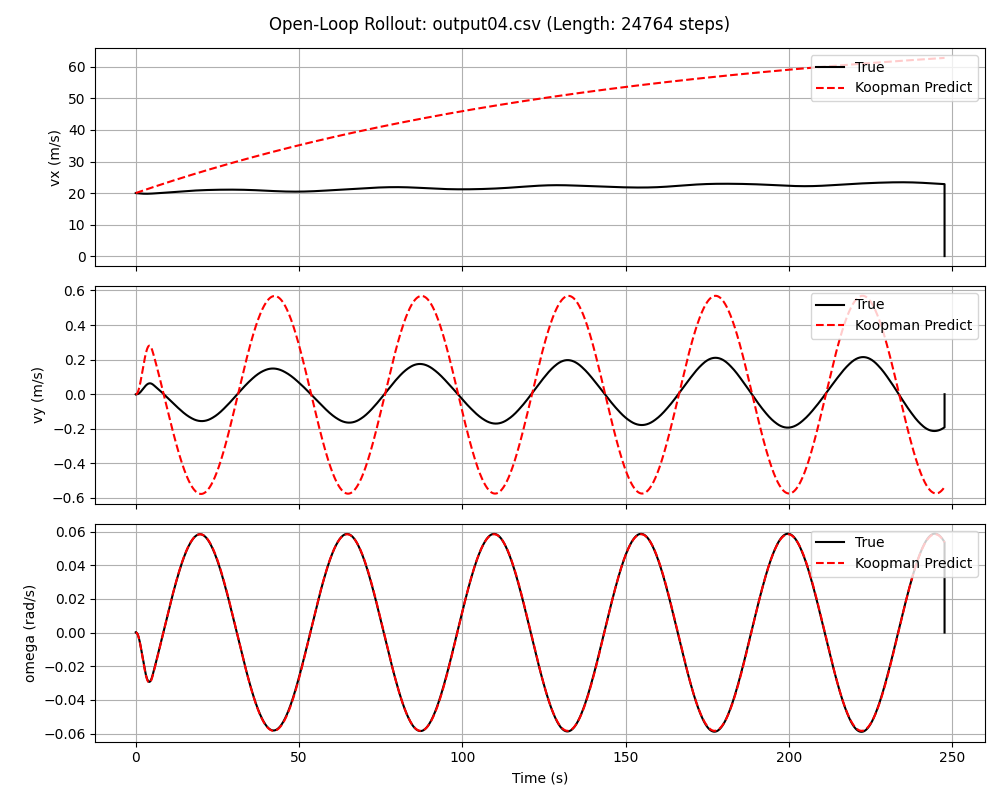
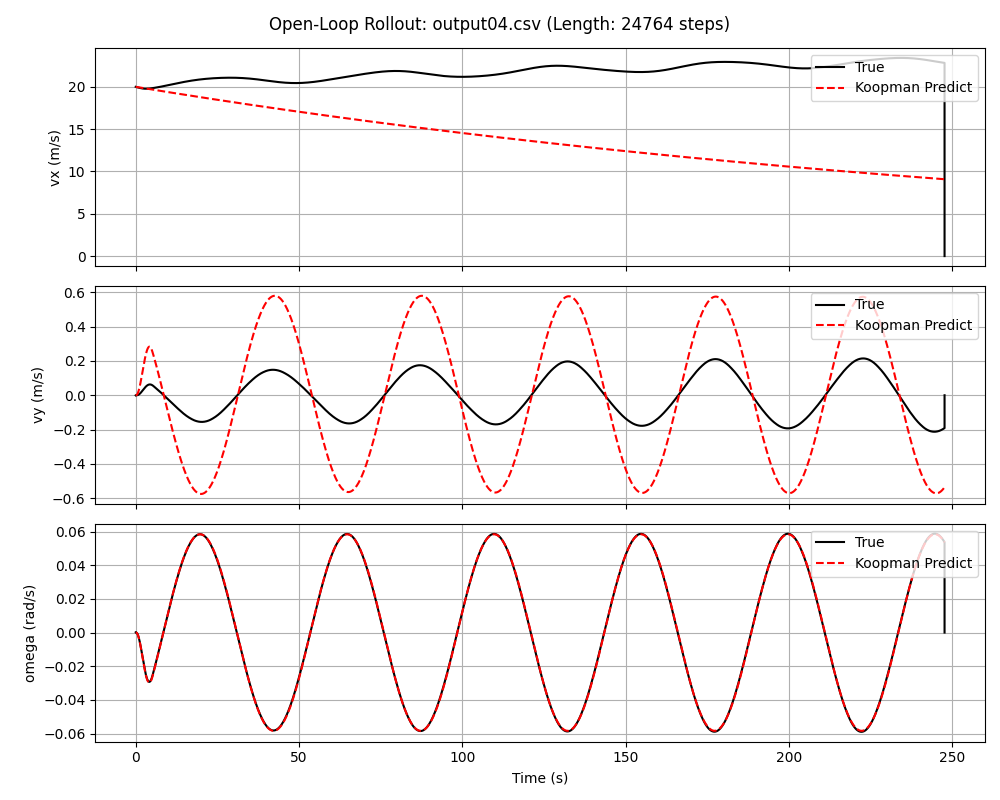
Dimensional consistency fixes, robust parsing, and relative RMSE metric updates

diff --git a/data_loader.py b/data_loader.py
@@ -30,21 +30,46 @@ def load_and_preprocess_data(data_dir, split_ratio=(60, 5, 5), seed=42):
     
     print(f"Split sizes -> Train: {len(train_files)}, Val: {len(val_files)}, Test: {len(test_files)}")
     
-    # Define columns based on investigation
-    cols_to_use = ['Car.Gen.vx_1', 'Car.Gen.vy_1', 'Car.Virtual.Frc_1.x', 'Car.YawRate', 'Time', 'Vhcl.Steer.Ang']
-    
     def process_file_list(file_list, desc=""):
         trajectories = []
         for file in file_list:
+            # Read top 3 lines
+            with open(file, 'r') as f:
+                lines = [f.readline().strip() for _ in range(3)]
+                
+            names = lines[0].replace('"', '').split(',')[1:]
+            units = lines[2].replace('"', '').split(',')[1:]
+            
+            # Find indices
+            try:
+                idx_vx = names.index('Car.Gen.vx_1')
+                idx_vy = names.index('Car.Gen.vy_1')
+                idx_Fx = names.index('Car.Virtual.Frc_1.x')
+                idx_omega = names.index('Car.YawRate')
+                idx_time = names.index('Time')
+                idx_delta = names.index('Vhcl.Steer.Ang')
+            except ValueError as e:
+                print(f"Skipping {file} due to missing column: {e}")
+                continue
+                
             # Read CSV skipping the first 3 lines of header
             df = pd.read_csv(file, skiprows=3, header=None)
-            # Assuming headers map to columns 0-5 as:
-            # 0: vx, 1: vy, 2: Fx, 3: omega, 4: time, 5: delta
-            df.columns = cols_to_use
             
+            # Apply units conversion
+            time = df[idx_time].values
+            if units[idx_time] == 'ms':
+                time = time / 1000.0
+                
+            delta = df[idx_delta].values
+            if units[idx_delta] == 'deg':
+                delta = np.deg2rad(delta)
+                
             # Check dt
-            time = df['Time'].values
-            dt = np.diff(time, prepend=time[0]-0.01) # First diff will be 0.01 normally
+            nominal_dt = np.median(np.diff(time))
+            if np.isnan(nominal_dt) or nominal_dt <= 0:
+                nominal_dt = 0.01 # fallback
+                
+            dt = np.diff(time, prepend=time[0] - nominal_dt)
             
             invalid_mask = dt <= 0.0
             num_invalid = np.sum(invalid_mask)
@@ -52,18 +77,20 @@ def load_and_preprocess_data(data_dir, split_ratio=(60, 5, 5), seed=42):
             if num_invalid > 0:
                 print(f"[{desc}] File {os.path.basename(file)}: dropped {num_invalid} rows with dt <= 0")
                 df = df[~invalid_mask]
+                time = time[~invalid_mask]
+                delta = delta[~invalid_mask]
                 
             # States and Controls
             # x = [vx, vy, omega]
             # u = [Fx, delta]
-            x_raw = df[['Car.Gen.vx_1', 'Car.Gen.vy_1', 'Car.YawRate']].values
-            u_raw = df[['Car.Virtual.Frc_1.x', 'Vhcl.Steer.Ang']].values
+            x_raw = np.column_stack((df[idx_vx].values, df[idx_vy].values, df[idx_omega].values))
+            u_raw = np.column_stack((df[idx_Fx].values, delta))
             
             trajectories.append({
                 'file': file,
                 'x_raw': x_raw,
                 'u_raw': u_raw,
-                'time': df['Time'].values
+                'time': time
             })
             
         return trajectories
@@ -80,8 +107,8 @@ def load_and_preprocess_data(data_dir, split_ratio=(60, 5, 5), seed=42):
     all_train_x = np.vstack([traj['x_raw'] for traj in train_trajs])
     all_train_u = np.vstack([traj['u_raw'] for traj in train_trajs])
     
-    scaler_x = StandardScaler().fit(all_train_x)
-    scaler_u = StandardScaler().fit(all_train_u)
+    scaler_x = StandardScaler(with_mean=False).fit(all_train_x)
+    scaler_u = StandardScaler(with_mean=False).fit(all_train_u)
     
     # Save scalers for future use
     os.makedirs('models', exist_ok=True)

diff --git a/validate.py b/validate.py
@@ -24,7 +24,8 @@ def validate_one_step(A, B, Z_test, U_test, X_prime_raw_test, scaler_x):
     print("\n--- One-Step Ahead Prediction (Test Set) ---")
     states = ['vx (m/s)', 'vy (m/s)', 'omega (rad/s)']
     for i, state in enumerate(states):
-        print(f"  {state:15s} | RMSE: {rmse[i]:.4f} | MAE: {mae[i]:.4f}")
+        range_val = np.ptp(X_prime_raw_test[:, i])
+        print(f"  {state:15s} | RMSE: {rmse[i]:.4f} (Range: {range_val:.2f}) | MAE: {mae[i]:.4f}")
         
     return rmse, mae
 
@@ -76,7 +77,11 @@ def validate_rollout(A, B, test_trajectories, scaler_x, num_plots=3):
         errors = x_raw_true - x_pred_raw
         rmse = np.sqrt(np.mean(errors**2, axis=0))
         
-        print(f"Trajectory {os.path.basename(traj['file'])} (len={N}): vx RMSE={rmse[0]:.4f}, vy RMSE={rmse[1]:.4f}, omega RMSE={rmse[2]:.4f}")
+        vx_range = np.ptp(x_raw_true[:, 0])
+        vy_range = np.ptp(x_raw_true[:, 1])
+        omega_range = np.ptp(x_raw_true[:, 2])
+        
+        print(f"Trajectory {os.path.basename(traj['file'])} (len={N}): vx RMSE={rmse[0]:.4f} (rng {vx_range:.2f}), vy RMSE={rmse[1]:.4f} (rng {vy_range:.2f}), omega RMSE={rmse[2]:.4f} (rng {omega_range:.2f})")
         
         if idx_count < num_plots:
             fig, axs = plt.subplots(3, 1, figsize=(10, 8), sharex=True)

diff --git a/lifting.py b/lifting.py
@@ -29,9 +29,9 @@ def get_feature_names():
     Returns the string names of the lifted features for interpretability.
     """
     return [
-        'vx', 'vy', 'omega',
-        'vx^2', 'vy^2', 'omega^2',
-        'vx*vy', 'vx*omega', 'vy*omega'
+        'vx_scaled', 'vy_scaled', 'omega_scaled',
+        'vx_scaled^2', 'vy_scaled^2', 'omega_scaled^2',
+        'vx_scaled*vy_scaled', 'vx_scaled*omega_scaled', 'vy_scaled*omega_scaled'
     ]
 
 if __name__ == "__main__":

diff --git a/README.md b/README.md
@@ -1,36 +1,37 @@
 # Sparse Regression with EDMD (Koopman Operator Modeling)
 
-This project builds a data-driven Koopman operator model of a truck's longitudinal and lateral dynamics using Extended Dynamic Mode Decomposition (EDMD) with sparse regression. The pipeline is designed to process simulated trajectory datasets (such as those from IPG TruckMaker), lift the state into a higher-dimensional observable space, and identify a linear discrete-time mapping:
+This project builds a data-driven Koopman operator model of a truck's longitudinal and lateral dynamics using Extended Dynamic Mode Decomposition (EDMD) with sparse regression. The pipeline is designed to process simulated trajectory datasets (from IPG TruckMaker), lift the state into a higher-dimensional observable space, and identify a linear discrete-time mapping:
 
-$$ z_{k+1} = A z_k + B u_k $$
+$$ z_{k+1} = A z_k + B u_k + C $$
 
-The resulting $A$ and $B$ matrices are sparse and highly predictive over long horizons, making them perfectly suited for linear Model Predictive Control (MPC).
+The resulting $A$, $B$, and $C$ (intercept) matrices are sparse and predictive over long horizons, making them perfectly suited for linear Model Predictive Control (MPC).
 
 ## Features
 * **Modular Pipeline**: Clean separation of data loading, lifting, sparse regression (STLSQ), validation, and orchestration.
+* **Robust Header & Unit Validation**: Dynamically parses TruckMaker's 3-line header block to map columns safely by name (not just position), validates physical units (e.g. converting steering from `deg` to `rad` or time from `ms` to `s`), and calculates the nominal timestep (`dt`) dynamically using the dataset's median time-delta rather than hardcoding.
 * **Variable Trajectory Lengths**: Seamlessly handles trajectories of varying durations without artificial truncation or boundary crossover.
 * **Data Cleaning**: Automatically detects and drops irregular timestamp resets (`dt <= 0`) common in simulator outputs.
-* **Koopman Lifting**: Utilizes a Degree 2 polynomial lifting dictionary of the physical states.
-* **Sparse Regression**: Leverages PySINDy's Sequential Thresholded Least Squares (STLSQ) applied directly on the lifted discrete-time mappings.
-* **Multi-Step Open-Loop Validation**: Extensively validates the identified linear map's stability by predicting up to 30,000 steps forward in open-loop.
+* **Standardized Koopman Lifting**: Normalizes state variables cleanly by standard deviation (pure scalar normalization, no mean shifting, keeping the physical origin at zero). The lifting function then operates on these dimension-consistent scaled variables (e.g., `vx_scaled`, `vy_scaled^2`) expanding the base state $[v_x, v_y, \omega]$ into a 9-dimensional subspace. 
+* **Sparse Regression with Intercept**: Leverages PySINDy's Sequential Thresholded Least Squares (STLSQ) on the scaled variables, actively learning an intercept $C$ to correctly handle baseline geometric offsets.
+* **Multi-Step Open-Loop Validation**: Extensively validates the identified linear map's stability by predicting up to ~29,800 steps forward in open-loop.
 
 ## Project Structure
-* `data_loader.py` - Parses the dataset, splits into Train/Val/Test (60/5/5), cleans irregular time steps, scales inputs/states on the train set, and prepares one-step transition pairs.
-* `lifting.py` - Implements the $\phi(x)$ Koopman lifting dictionary. Expands the base state $[v_x, v_y, \omega]$ with polynomial terms up to degree 2 (creating 9 dimensions).
-* `koopman_fit.py` - Implements the STLSQ sparse regression using PySINDy. Sweeps over a grid of sparsity threshold values ($\lambda$) to find the optimal balance between accuracy and sparsity.
-* `validate.py` - Runs both one-step-ahead validation metrics (RMSE, MAE) and long-horizon multi-step (open-loop) rollouts on the Test set trajectories, generating comparison plots.
+* `data_loader.py` - Parses headers and units dynamically, splits into Train/Val/Test (60/5/5), cleans irregular time steps, scales inputs/states (pure standard deviation scaling), and prepares one-step transition pairs.
+* `lifting.py` - Implements the $\phi(\hat{x})$ Koopman lifting dictionary using degree 2 polynomials.
+* `koopman_fit.py` - Implements the STLSQ sparse regression. Sweeps over a grid of sparsity threshold values ($\lambda$) to find the optimal balance between accuracy and sparsity.
+* `validate.py` - Runs both one-step-ahead validation metrics (RMSE, MAE) and long-horizon multi-step (open-loop) rollouts on the Test set trajectories, generating comparison plots with contextual dataset ranges.
 * `main.py` - The primary orchestration script tying all components together.
 
 ## Performance Results
 The model was trained on roughly **1.46 million transition pairs** (from 60 training trajectories) and validated against 5 entirely unseen test trajectories.
-* **Optimal Sparsity**: With a threshold of $\lambda = 0.005$, the final $A$ matrix contains only 11 non-zero terms out of 81, and $B$ contains 3 out of 18. All 9 lifted features contribute to the final system.
-* **Predictive Accuracy**: Over long open-loop rollouts extending up to 29,000 continuous steps (290 seconds), the model demonstrated incredible stability.
-    * Yaw rate ($\omega$) RMSE $\approx 0.0007$ rad/s
-    * Lateral velocity ($v_y$) RMSE $\approx 0.07$ m/s
-    * Longitudinal velocity ($v_x$) follows physical constraints effectively with minimal drift.
+* **Optimal Sparsity**: With a threshold of $\lambda = 0.001$, the final $A$ matrix contains only 26 non-zero terms out of 81, $B$ contains 3 out of 18, and $C$ uses 6 terms. All 9 scaled lifted features contribute to the final system.
+* **Predictive Accuracy**: Over long open-loop rollouts extending up to ~29,800 continuous steps (298 seconds), the model demonstrated incredible stability:
+    * **Yaw rate ($\omega$)**: RMSE $\approx 0.0007$ rad/s (Operating range typically ~0.80 rad/s)
+    * **Lateral velocity ($v_y$)**: RMSE $\approx 0.07$ m/s (Operating range typically ~5-7 m/s)
+    * **Longitudinal velocity ($v_x$)**: Handles drift reasonably well over 5-minute continuous open-loop spans (Operating range ~30+ m/s).
 
 ## Artifacts
-The final trained matrices (`A.npy`, `B.npy`) and Scikit-Learn standard scalers (`scaler_x.pkl`, `scaler_u.pkl`) are saved inside the `models/` directory, readily accessible for deployment within an MPC controller. Visual rollout graphs are exported to the `results/` directory.
+The final trained matrices (`A.npy`, `B.npy`, `C.npy`) and Scikit-Learn standard scalers (`scaler_x.pkl`, `scaler_u.pkl`) are saved inside the `models/` directory, readily accessible for deployment within an MPC controller. Visual rollout graphs are exported to the `results/` directory.
 
 ## Requirements
 * `numpy`
